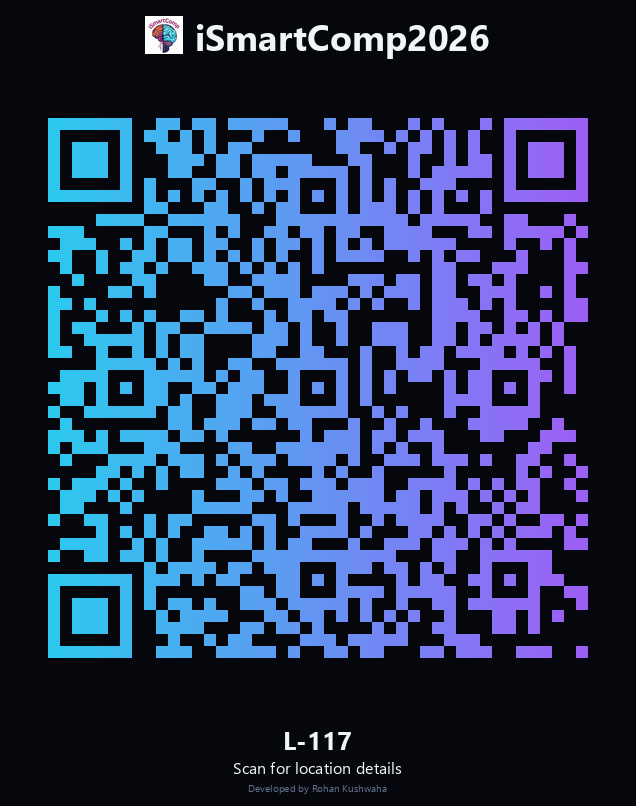
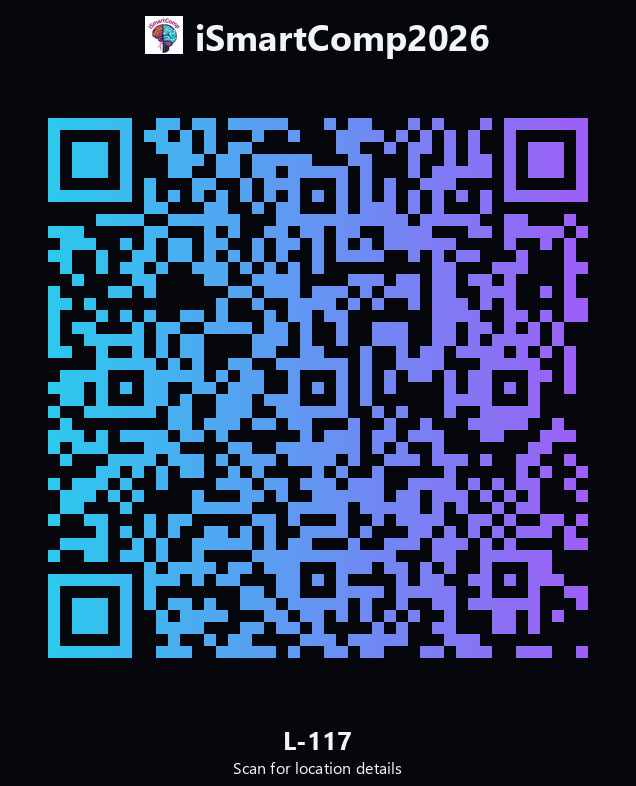
Revert "Add developer watermark to QR code images"
This reverts commit bec2faaaebbb66e4d5901c3db133a70aff0ec9a6.

diff --git a/scripts/generate_qr.py b/scripts/generate_qr.py
@@ -43,7 +43,7 @@ def create_labeled_qr(data, text, filename, subtitle="Scan for location details"
     # Calculate sizes
     qr_w, qr_h = qr_img.size
     header_h = 70  # Space for conference title at top
-    footer_h = 100  # Space for location name, instructions, and watermark at bottom
+    footer_h = 80  # Space for location name and instructions at bottom
     
     # Create new image with extra space at top and bottom
     new_img = Image.new('RGB', (qr_w, qr_h + header_h + footer_h), bg_color)
@@ -56,18 +56,15 @@ def create_labeled_qr(data, text, filename, subtitle="Scan for location details"
         font_main_title = ImageFont.truetype("segoeuib.ttf", 36) # Conference Title (Header)
         font_loc_name = ImageFont.truetype("segoeuib.ttf", 26)   # Location Name (Footer)
         font_sub = ImageFont.truetype("segoeui.ttf", 16)         # Instructions (Footer)
-        font_watermark = ImageFont.truetype("segoeui.ttf", 10)   # Watermark
     except IOError:
         try:
             font_main_title = ImageFont.truetype("arialbd.ttf", 36)
             font_loc_name = ImageFont.truetype("arialbd.ttf", 26)
             font_sub = ImageFont.truetype("arial.ttf", 16)
-            font_watermark = ImageFont.truetype("arial.ttf", 10)
         except IOError:
             font_main_title = ImageFont.load_default()
             font_loc_name = ImageFont.load_default()
             font_sub = ImageFont.load_default()
-            font_watermark = ImageFont.load_default()
             
     # Draw Header (Logo + Conference Title)
     conf_title = "iSmartComp2026"
@@ -107,13 +104,6 @@ def create_labeled_qr(data, text, filename, subtitle="Scan for location details"
     text_x_inst = (qr_w - (bbox_inst[2] - bbox_inst[0])) // 2
     text_y_inst = text_y_loc + 35
     draw.text((text_x_inst, text_y_inst), instruction_text, fill=text_color, font=font_sub)
-    
-    # Draw Watermark
-    watermark = "Developed by Rohan Kushwaha"
-    bbox_wm = draw.textbbox((0, 0), watermark, font=font_watermark)
-    text_x_wm = (qr_w - (bbox_wm[2] - bbox_wm[0])) // 2
-    text_y_wm = text_y_inst + 25
-    draw.text((text_x_wm, text_y_wm), watermark, fill="#64748b", font=font_watermark) # muted text color
     
     filepath = os.path.join(OUTPUT_FOLDER, filename)
     new_img.save(filepath)
